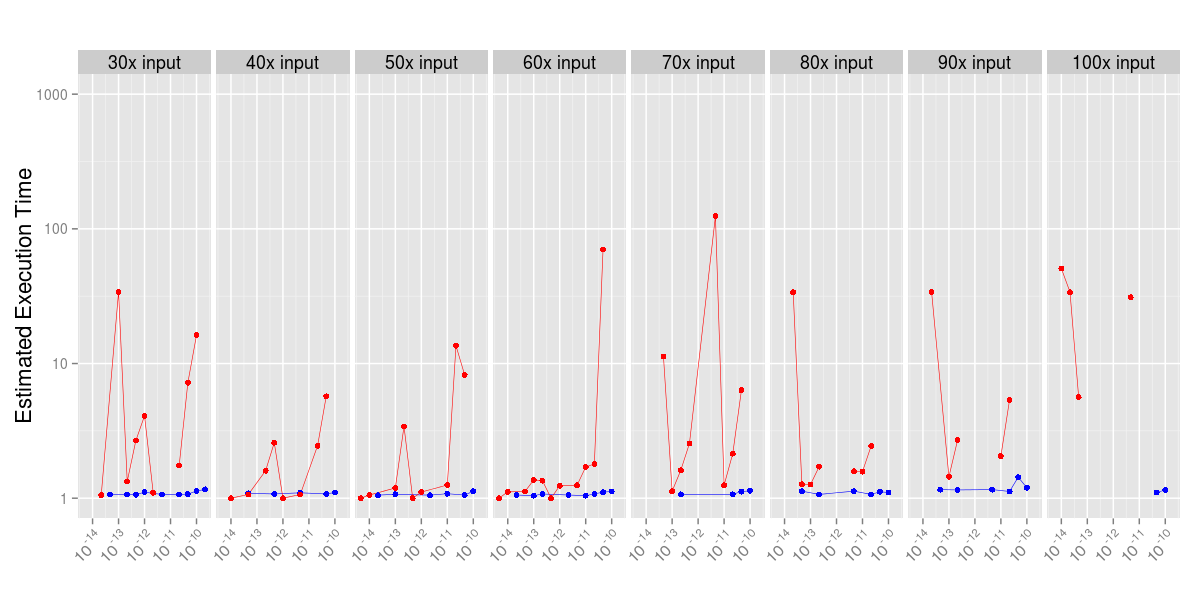
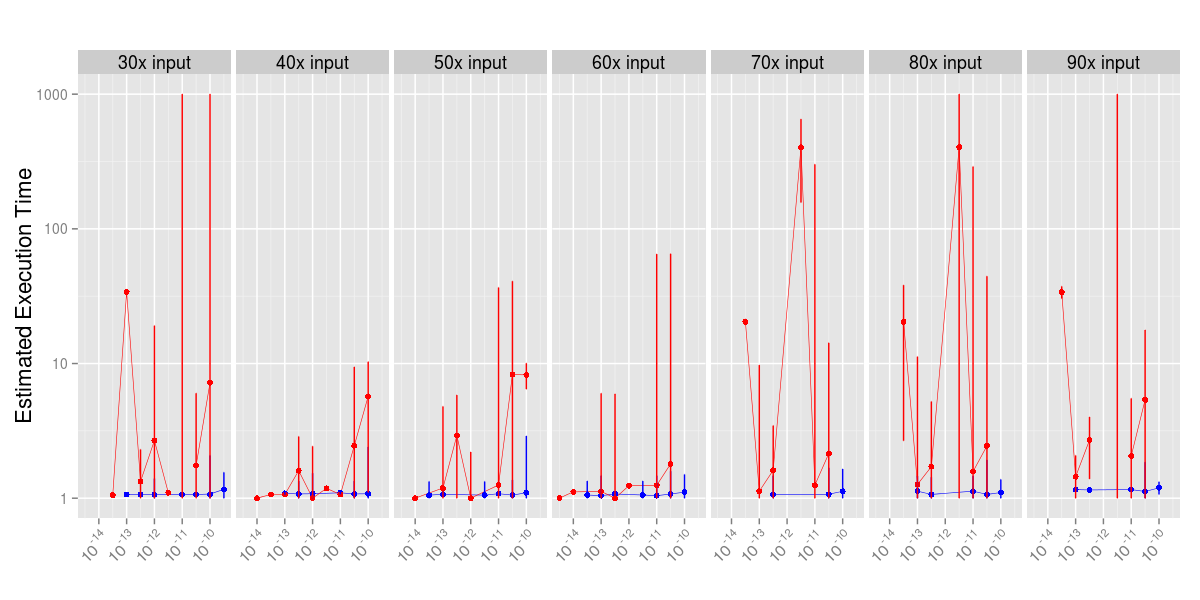
Changed Figs 9~11; Marc's changes

Changed region(s): [[0.0617, 0.09, 0.9867, 0.93]]

diff --git a/paper.tex b/paper.tex
@@ -295,28 +295,15 @@ As our experiments show, the cost of algorithmic error detection is low and drop
 \centering
 \includegraphics[width=1.00\columnwidth]{figs/4_1_1_Overall_Breakdown.png}
 %\vspace{-5pt}
-\caption{Overhead of resilience techniques when no errors are injected and when errors are injected (points).}
+\caption{Overhead of resilience techniques. Results when no errors are injected are shown in the bars while overheads when errors are injected are expressed by using points.}
 \label{fig:routine_all_ovhd}
 \end{figure}
 
-Figure~\ref{fig:routine_all_ovhd} shows the overhead of all resilience techniques with no fault injection.
-The data shows that checkpointing consumes as much, if not more, time than error detection but that this cost grows more slowly than the routines' computational cost.
-In routines MV and RK the inputs are sufficiently small that checkpointing has negligible cost.
-Howveer, because MV runs quickly and because RK takes many checkpoints ($9000 \cdot input size)$), the cost of saving processor state is small but not negligible.
-
-%Finally, Figure~\ref{fig:routine_exp_exec} documents the overhead of resilience when errors are injected into application execution, accounting for the slowdowns due to the resilience mechanisms as well as rollbacks due to error detections.
-
-\sui{(Describe Fig.2 when faults are injected)}
-
-%Each routine's graph shows $\frac{\texttt{Time with Errors}}{\texttt{Time No Errors}}$, where the \texttt{Time with Errors} is average increase execution time of a resilient or non-resilient version of the routine when running on the same range of inputs as above, and \texttt{Time No Errors} is the execution time of the non-resilient version on the same inputs when no errors are injected.
-%The graph for each routine reports this metric for all of the above input sizes, error injection rates between 1e-8 and \sui{(1e-8 is the highest error rate that we can have for most runs to complete) and 1e-10 (is the lowest error rate we would observe errors from mosts of the runs) } \greg{confirm!} and all resilience configurations (no resilience and resilience with detection thresholds between 1e-6 and 1e-8), as the average time of \greg{???} runs \sui{100 runs per configuration}.
-The data points within each figure are organized horizontally according to the average number of errors injected into runs with the given input size and at the given injection rate. \greg{Do the error counts include errors after rollbacks?} \sui{No, because the error count is the number of errors for Non-FT runs with errors. Since there is no FT and no checkpointing in these configurations, the number doesn't include errors after rollbacks. }
-This average error count is shown on the x-axis.
-All runs with the same resilience configuration are joined together into a line to highlight its properties.
-
-\sui{These are about Figure 2}The data shows \greg{???} \sui{Soft errors may cause the routines to run longer due to rollback in attempt to correct the errors. The higher the error rate, the more likely rollback is to occur. For example, the Cholesky Decomposition routine with input size 100, when exposed to an error rate of 1e-06, would run on average twice as long as when no fault is injected. That means in this case, every one of the runs tend to have 100\% overhead. In some cases the algorithm would give up retrying after the fifth time because it is unable to recover from the corrupt inputs. For example, for FFT exposed at a fault rate of 1e-08, the average overhead, as computed by dividing the time spent in the fault-tolerance codes by the baseline running time, decreases, because more runs tend to early-terminate when too many elements in the input have been corrupted.}
-
-\sui{I will add a graph showing how many of the inputs have been corrupted and failed to recover. This is an important issue for FFT.}
+Figure~\ref{fig:routine_all_ovhd} shows in the bars the overhead of all resilience techniques with no fault injection.
+The data shows that checkpointing routine's input (input backup bar) consumes more time than algorithm specific data corruption mechanisms (checker bar). In all cases, the overheads decrease as the input set size increses.
+The same figure shows in the points the computational overhead when errors are injected. 
+The data points within each figure are organized horizontally according to the average number of errors injected into runs with the given input size and at the given injection rate.
+In general, those overheads also decrease when the input set size increases.  
 
 %%%%%%%%%%%%%%%%%%%%%%%%%%%%%%%%%%%%%%%%%%%%%%%%%%%%%
 \paragraph{Output Accuracy}
@@ -337,40 +324,38 @@ All runs with the same resilience configuration are joined together into a line 
 \end{figure}
 
 We now evaluate the effectiveness of our algorithmic detectors when errors are injected.
-Figures~\ref{fig:algo_err_dist} and \ref{fig:algo_err_heatmap} show the fraction of entries in the outputs of each routine (y-axis) that have an error of a given magnitude (x-axis) as error magnitudes span from 1e-14 to 1e-4.
-Figure~\ref{fig:algo_err_dist} is a focused view on few representative cases (each routine run on a single input size and error injection rate) across different resilience configurations: no error detection as well as detection thresholds of 1e-6, 1e-7 and 1e-8.
+Figures~\ref{fig:algo_err_dist} show the fraction of entries in the outputs of each routine (y-axis) that have an error of a given magnitude (x-axis) as error magnitudes span from 1e-14 to 1e-4.
+This figure is a focused view on few representative cases (each routine run on a single input size and error injection rate) across different resilience configurations: no error detection as well as detection thresholds of 1e-6, 1e-7 and 1e-8.
 As the error magnitude increases the fraction of output entries with errors of that magnitude drops.
 Importantly, the fraction of erroneous entries is reduced at all magnitudes as a result of error detection and restart.
 Further, this reduction is more significant as the detection threshold shrinks since smaller magnitude errors are detected.
 
-Figure~\ref{fig:algo_err_heatmap} shows the same information but for all experimental configurations: (i) input sizes of n=100 to 500 for linear algebra, 512K-8M size inputs for FFT and \greg{???} \sui{10 to 100} for RK; (ii) error injection rates of 1e-7 to 1e-10.
+Figure~\ref{fig:algo_err_heatmap} shows the same information but for all experimental configurations: (i) input sizes of n=100 to 500 for linear algebra, 512K-8M size inputs for FFT and 10 100 for RK; (ii) error injection rates of 1e-7 to 1e-10.
 The graph is a grid, with results for different routines listed vertically and different resilience configurations (no detection and different detection thresholds) listed horizontally.
 The graph for each routine and resilience configuration presents the curves from Figure \ref{fig:algo_err_dist} as a heatmap.
 The y-axis shows different routine input sizes and error injection rates, sorted according to the average number of error injections per run, in decreasing order from top to bottom.
 The x-axis shows the different error magnitudes and the shade of each point is the fraction of the routine's entries that have a given error magnitude, with darker shades indicating more such entries.
 Thus, each row of Figure~\ref{fig:algo_err_heatmap} represents the same information as each curve in Figure~\ref{fig:algo_err_dist}, with the shades of the squares representing the same information as the height of the line's points.
 
-\marc{The y-axis should show just the number of errors injected. We can say that we have used several fault injection rates and sizes to get those numbers. Right now the picture is confusing.}
-\sui{How does this look?}
-
-Figure~\ref{fig:algo_err_heatmap} shows the same information across the entire experimental space.
-The y-axis includes all algorithms, input sizes and error rates.
-The x-axis includes several segments for different degrees of error checking: none, as well as checking with thresholds \greg{???} \sui{1e-06, 1e-07 and 1e-08}. In each segment the x-axis spans over error magnitudes from \greg{???} \sui{1e-14} to \greg{???} \sui{1e-01}.
-The box associated with each combination of the four parameters the figure indicates the fraction of outputs that have an error of this magnitude by the shade of gray it is colored with, as indicated in the legend.
-The data shows that the accurate of application results is directly related to the number of errors that impact a given application run, rather than their rate.
-Further, it shows that a reduction of detection threshold is consistently effective at reducing the fraction of errors in each algorithm's output.
+%We dont have the following figure and there is no time to generate it. 
+%Figure~\ref{fig:algo_err_heatmap} shows the same information across the entire experimental space.
+%The y-axis includes all algorithms, input sizes and error rates.
+%The x-axis includes several segments for different degrees of error checking: none, as well as checking with thresholds \greg{???} \sui{1e-06, 1e-07 and 1e-08}. In each segment the x-axis spans over error magnitudes from \greg{???} \sui{1e-14} to \greg{???} \sui{1e-01}.
+%The box associated with each combination of the four parameters the figure indicates the fraction of outputs that have an error of this magnitude by the shade of gray it is colored with, as indicated in the legend.
+%The data shows that the accurate of application results is directly related to the number of errors that impact a given application run, rather than their rate.
+%Further, it shows that a reduction of detection threshold is consistently effective at reducing the fraction of errors in each algorithm's output.
 %However, the effectiveness of algorithmic checks has a limit, with CD and FFT showing moderate error vulnerability even at threshold 1e-8.
-\sui{(Rephrase) However, the algorithmic checkers cannot cover 100\% of the errors for CD, FFT and FIR, mainly fixing errors of large magnitudes which turned out to be effective in real applications (refer to the imperfect run rate plot for DRC.)}
+%\sui{(Rephrase) However, the algorithmic checkers cannot cover 100\% of the errors for CD, FFT and FIR, mainly fixing errors of large magnitudes which turned out to be effective in real applications (refer to the imperfect run rate plot for DRC.)}
 %MM, MV and SYRK are significantly less vulnerable across the full range of error magnitudes.
-\sui{(Rephrase) The errors shown in MM, MV and SYRK are much more noticably fixed.}
-\greg{should reference vulnerability numbers more specifically}
+%\sui{(Rephrase) The errors shown in MM, MV and SYRK are much more noticably fixed.}
+%\greg{should reference vulnerability numbers more specifically}
 
 %Experiment 3: Measure the fraction fraction of routine runs that are interrupted by the detection of an error.
 %Display this information via the same heatmaps as above.
 
-\greg{For each experiment we need to include a discussion of what it means for how these checkers behave within the full-application runs.}
+%\greg{For each experiment we need to include a discussion of what it means for how these checkers behave within the full-application runs.}
 
-\sui{The checkers have performed well in reducing erroneous results from the application outputs. Checkers for linear algebra are useful in removing errors from Lasso, as one could see from the results.}
+%\sui{The checkers have performed well in reducing erroneous results from the application outputs. Checkers for linear algebra are useful in removing errors from Lasso, as one could see from the results.}
 
 %Those checkers can detect errors greater than a certain numeric threshold in those computations (determined by the user-defined error checker threshold). Once an error beyond the threshold has occurred, a re-calculation would be initiated.
 %\greg{You need to be more specific. Each routine produces a result, your checker produces a result. How are these results compared and how is the threshold used to determine if there is an error or not.}
@@ -387,21 +372,22 @@ The difference between RK routine and others motivates special discussion of its
 Since RK's adaptive step size mechanism is already effective at tolerating many numerical errors we used it as the error detector for this routine without adjusting its tolerance parameters.
 The configurable portions of the RK resilience method are thus the choice of checkpointing and/or replication strategy.
 Configurations \texttt{Ckpt} and \texttt{NoChkpt} denote whether checkpointing was used and configurations \texttt{Re} and \texttt{NoRe} denote whether replication was used.
-We use the following checkpointing intervals: every 1/100/1000/10000/100000 calls to RK4 stepping function and the following replication configurations: No replication, 1 pair of replicas for each variable inthe source code and 1 pair of replicas for each occurrance of each variable in the source code.
+We consider checkpointing periods equal to 1, $10^2$, $10^3$, $10^4$ and $10^5$ calls to the RK4 stepping function and the following replication configurations: No replication, 1 pair of replicas for each variable in the source code and 1 pair of replicas for each occurrance of each variable in the source code.
 
 \paragraph{Overheads}
 %\label{sec:res_tech:eval:ovhd}
 
-\begin{figure}[ht!]
-%\vspace{-20pt}
-\centering
-\includegraphics[width=1.00\columnwidth]{figs/4_1_1_Overall_Breakdown_RK4}
-%\vspace{-5pt}
-\caption{Overhead of resilience techniques for RK when errors are not injected}
-\label{fig:rk_routine_detect_ovhd}
-\end{figure}
+%\begin{figure}[ht!]
+%%\vspace{-20pt}
+%\centering
+%\includegraphics[width=1.00\columnwidth]{figs/4_1_1_Overall_Breakdown_RK4}
+%%\vspace{-5pt}
+%\caption{Overhead of resilience techniques for RK when errors are not injected}
+%\label{fig:rk_routine_detect_ovhd}
+%\end{figure}
 
-Figure~\ref{fig:rk_routine_detect_ovhd} shows the overhead of employing each of the four RK resilience techniques when no errors are injected. \sui{Marc: please explain Fig 5} 
+%Figure~\ref{fig:rk_routine_detect_ovhd} shows the overhead of employing each of the four RK resilience techniques when no errors are injected. We use here the same format as in figure\ref{fig:routine_all_ovhd}. 
+%%MARC: I decided to remove the above figure because it doesnt make sense to me and the same information is displayed in the following figure with more readibility.
 
 \begin{figure}[ht!]
 \centering
@@ -410,7 +396,7 @@ Figure~\ref{fig:rk_routine_detect_ovhd} shows the overhead of employing each of 
 \label{fig:rk_routine_exp_exec}
 \end{figure}
 
-Figure~\ref{fig:rk_routine_exp_exec} shows the RK's overhead when errors are injected.%, using the same format as Figure~\ref{fig:routine_exp_exec}.
+Figure~\ref{fig:rk_routine_exp_exec} shows the RK's overhead when 0 up to 10 errors per run are injected.%, using the same format as Figure~\ref{fig:routine_exp_exec}.
 Although the \texttt{NoRe\_NoCkpt} configuration has the lowest overhead when only a few errors are injected (low error rate or small execution times), as the number of errors per run increase this configuration quickly becomes extremely slow because an error is detected in almost every run.
 Since each such detection requires a restart of the routine, at higher error rates this causes RK to restart many times before it completes.
 In contrast, while the other configurations have a higher overhead for a few errors per run, their execution time scales much better with increasing error rates, making them significantly more practical.
@@ -477,13 +463,13 @@ As with overhead, the choice of checkpointing interval and replication degree ma
 Having evaluated the resilience properties of the individual application routines and resilience techniques we now consider our three target applications ADDR, Hattrick and DRC.
 Section~\ref{sec:eval:perf} reports on the impact of errors and resilience techniques on application performance. Section~\ref{sec:eval:acc} describes the distribution of errors in the results of these applications.
 These results are based on a fault injection campaign that includes a range of fault injection rates, input sizes and configurations of resilience mechanisms, with 100 application runs for each combination of parameters.
-This corresponds to a total of \greg{???} \sui{66100 for lasso, 43200 for DRC, 102000 for Hattrick, as counted by my scripts.} error injection experiments.
+This corresponds to a total of 66100 for lasso, 43200 for DRC, 102000 for Hattrick error injection experiments.
 
 A given application run may terminate successfully or crash due to an unrecoverable error.
 Unrecoverable errors occur when there is a segmentation fault in code outside our protected routines or if 5 rollbacks of a routine have been observed in a given run since such repeated rollbacks almost always indicate that the corruption in application state cannot be repaired.
 Since we assume that the user needs application results regardless of the error rate, if the application crashes it is restarted from the beginning as many times as needed for it to complete.
 
-To evaluate the behavior of these applications in a broad range of error environments we considered error injection rates that range from 1e-16 \greg{???}\sui{Yes. At least this is the argument I sent to the injector.} errors per cycle of the LLVM virtual machine to 1e-6 errors per cycle.
+To evaluate the behavior of these applications in a broad range of error environments we considered several error injection rates.
 For reference, assuming a typical FIT of 100-100,000 for individual processing cores (FIT = failure in one billion hours of operation and this range has been experimentally observed for commodity electronics~\cite{mem_errors:2010, DRAMerr:2009}), an HPC system with one million cores will experience .1-100 errors per hour, which is equivalent to 3e-11 - 3e-14 errors per processor cycle on a 1Ghz processor.
 The range of error injection rates used used in our experiments were chosen such that (i) on average one or more errors were injected in the executions of our target applications and (ii) at least some application runs completed without crashing.
 Results for error rates that induce fewer than one error per run were extrapolated from our experiments with higher error rates.
